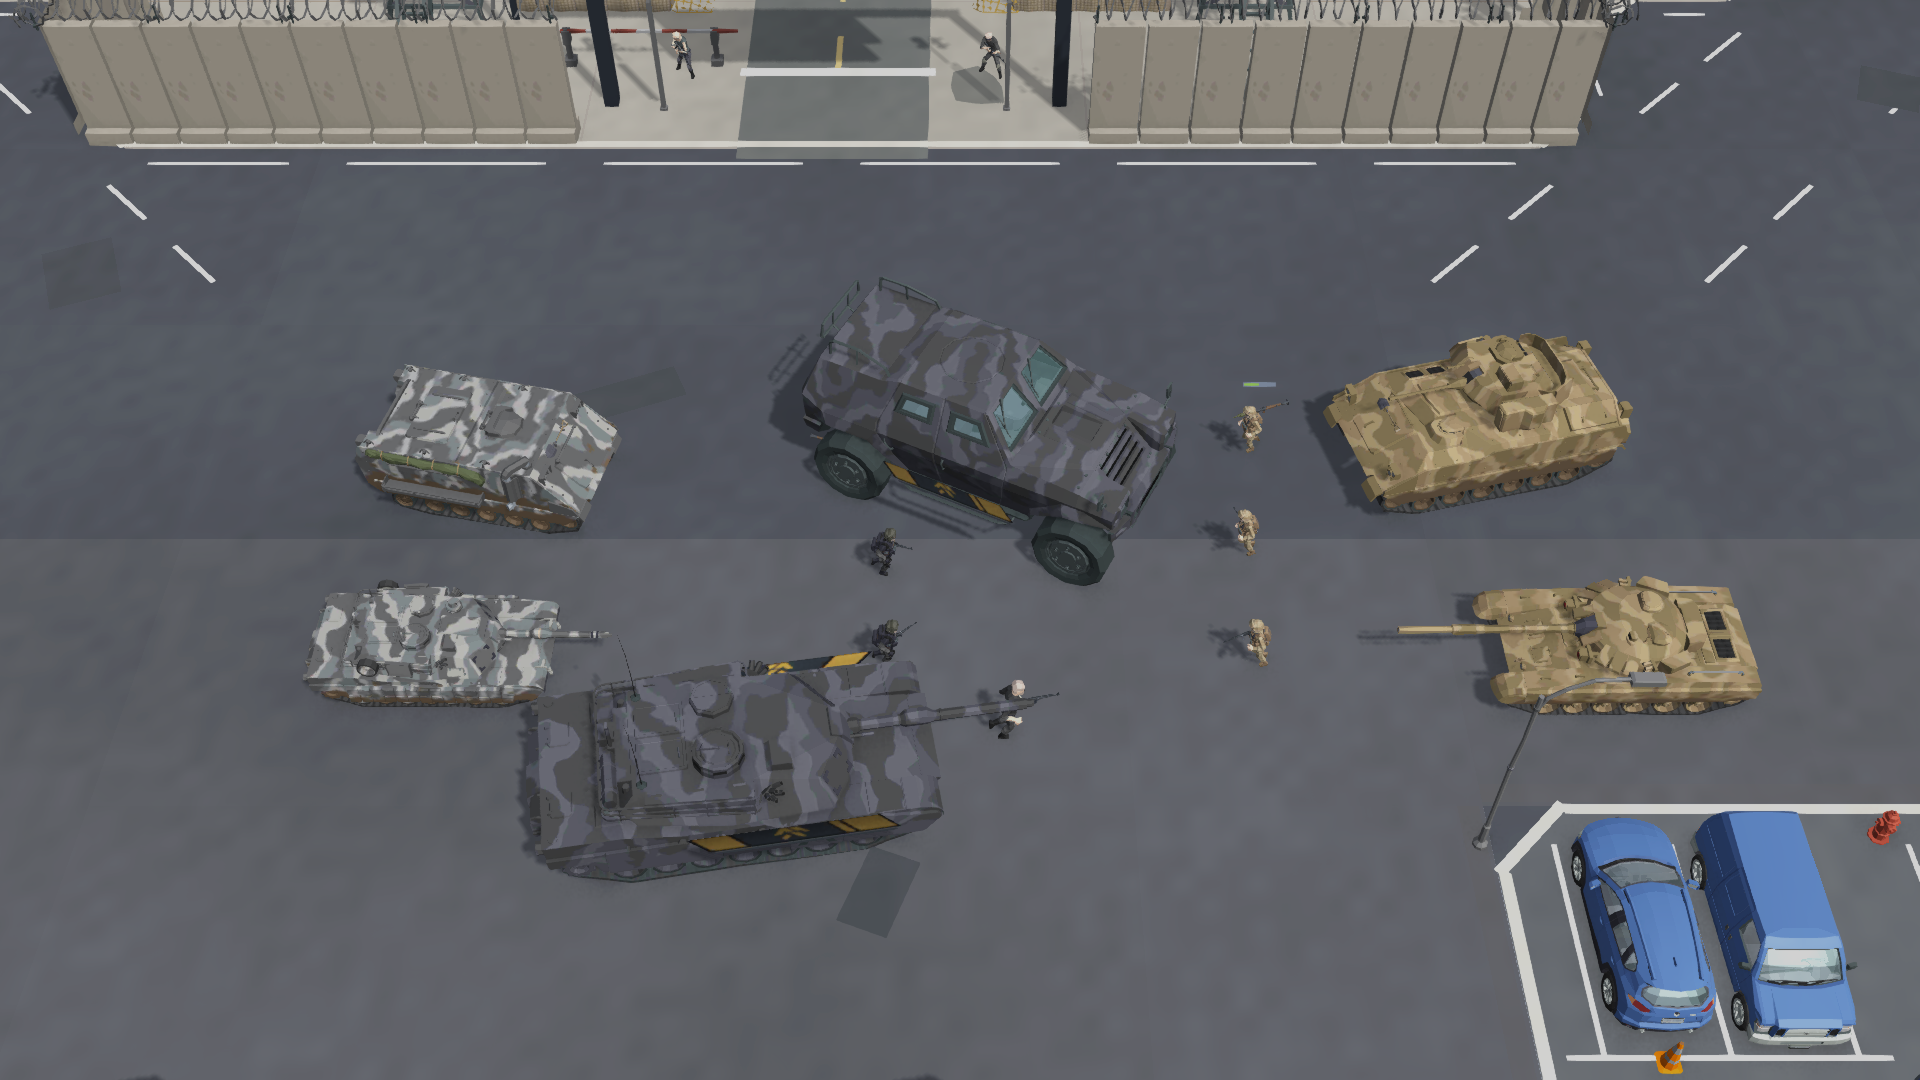
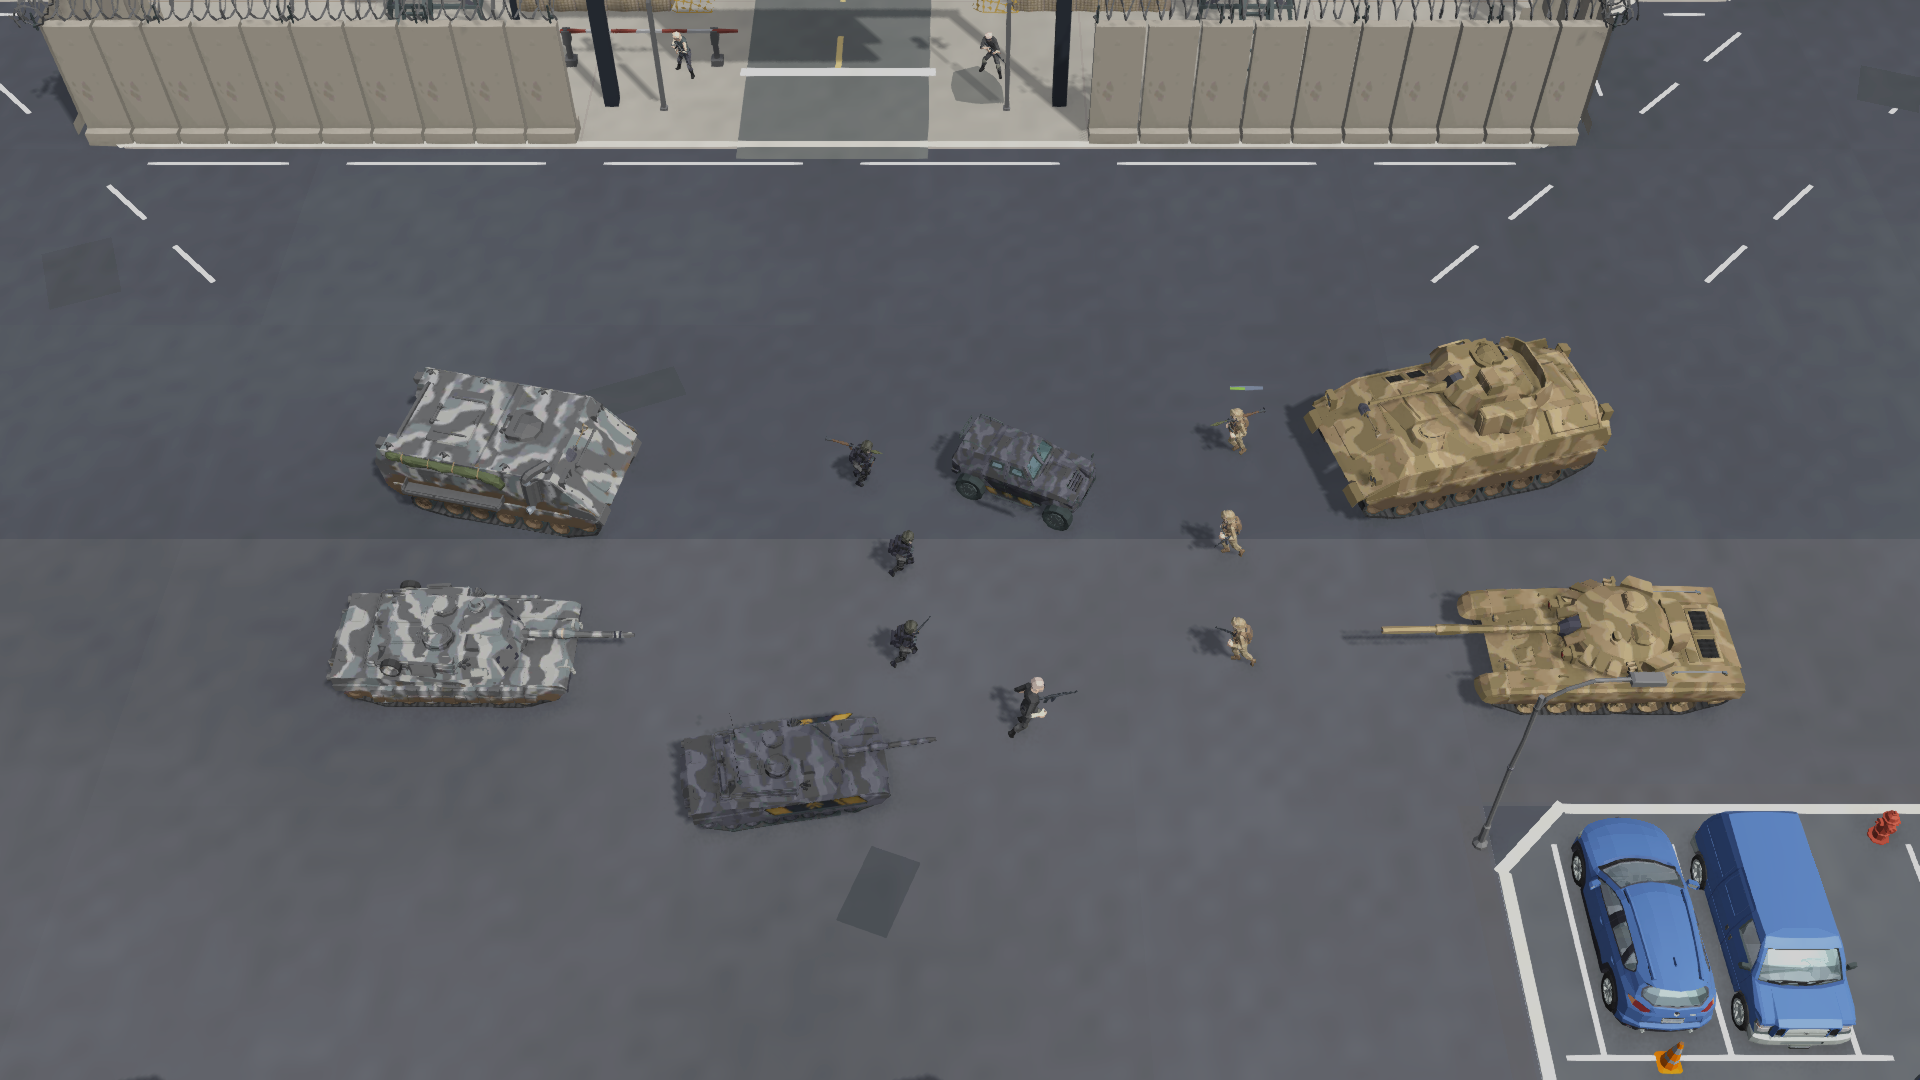
[gemini] Part 1: Normalize PMC combat unit scales (tank/MRAP/attack heli AutoFit) + before/after captures

diff --git a/Assets/Editor/FactoryWars/CampKit.cs b/Assets/Editor/FactoryWars/CampKit.cs
@@ -301,8 +301,10 @@ namespace FactoryWars.EditorTools {
       foreach (var (unit, display) in new[] { ("pmc_tank", "tank"), ("pmc_armored_suv", "mrap"), ("pmc_attack_heli", "heli"), ("pmc_attack_drone", "drone"), ("pmc_strike_drone", "drone") }) {
         var slot = catalog.Slots.Find(s => s != null && s.Id == "camp/display_" + display);
         if (slot == null) continue;
-        Slot(catalog, "unit/" + unit, slot.Prefab, slot.Size, slot.Scale);
-        catalog.Slots.Find(s => s.Id == "unit/" + unit).AutoFit = false;
+        // Combat unit slots use AutoFit = true (scale 1) so PMC tanks/MRAPs/helicopters match FF/CF combat unit scale,
+        // while camp/display_* slots preserve their 1:1 motor-pool display scale inside the PMC camp.
+        Slot(catalog, "unit/" + unit, slot.Prefab, slot.Size, 1f);
+        catalog.Slots.Find(s => s.Id == "unit/" + unit).AutoFit = true;
       }
       // PMC troopers: Mercenary male/female, merged into one skinned mesh with a black copy of the character material.
       var guard = catalog.Slots.Find(s => s != null && s.Id == "unit/trader_guard");

diff --git a/Assets/Editor/FactoryWars/ThirdPartyKit.cs b/Assets/Editor/FactoryWars/ThirdPartyKit.cs
@@ -148,9 +148,12 @@ namespace FactoryWars.EditorTools {
         slot.Category = VisualCategory.Unit;
         slot.PivotOffset = pivot;
         slot.Size = size;
-        slot.AutoFit = false;
+        // Combat unit slots (unit/*) auto-fit to RTS UnitSpec size so PMC helicopters match FF/CF gunships;
+        // camp/display_* slots keep their 1:1 motor-pool display span inside the PMC camp.
+        var isCombatUnit = id.StartsWith("unit/");
+        slot.AutoFit = isCombatUnit;
         slot.YawOffset = 0f;
-        slot.Scale = model.Span / Mathf.Max(0.01f, Mathf.Max(size.x, size.z));
+        slot.Scale = isCombatUnit ? 1f : model.Span / Mathf.Max(0.01f, Mathf.Max(size.x, size.z));
         slot.TeamColor = TeamColorMode.None;
         slot.TeamTextures = new Texture2D[0];
         slot.SpinParts = new string[0];
